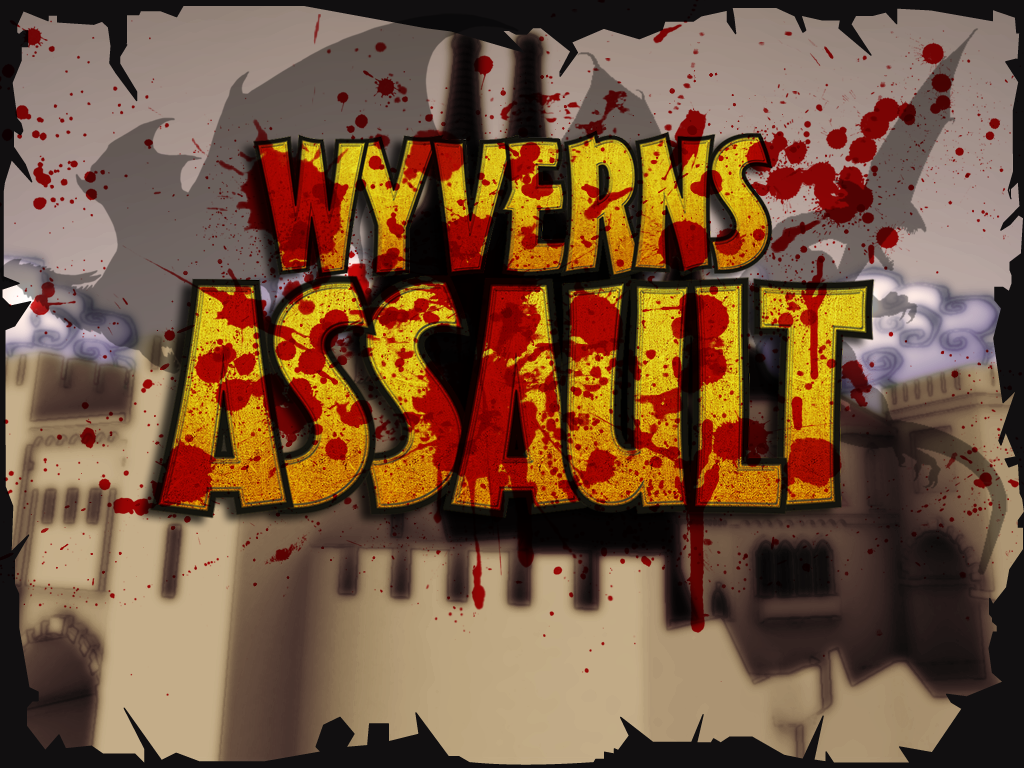
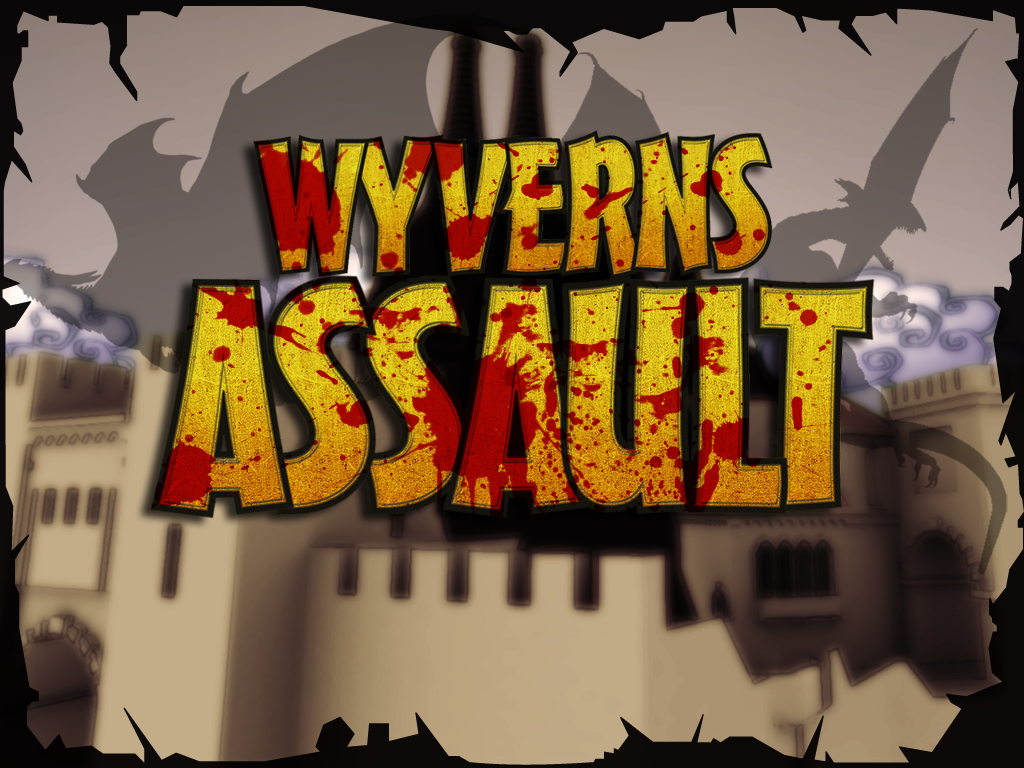
+ Added select character screen. + Added select character state. ~ Changes to main menu title. ~ Some other fixes.

diff --git a/trunk/src/States/SelectionState.cpp b/trunk/src/States/SelectionState.cpp
@@ -1,0 +1,150 @@
+#include "..\include\States\SelectionState.h"
+
+using namespace WyvernsAssault;
+
+SelectionState::SelectionState(GraphicsManagerPtr graphicsManager, 
+									 InputManagerPtr inputManager, 
+									 AudioManagerPtr audioManager, 
+									 CameraManagerPtr cameraManager, 
+									 GuiManagerPtr guiManager, 
+									 LevelManagerPtr levelManager)
+: BaseState(graphicsManager,inputManager,audioManager, cameraManager, guiManager, levelManager)
+, mLevel(0)
+{
+	//
+	// TODO Constructor
+	//
+}
+
+SelectionState::~SelectionState()
+{
+	//
+	// TODO Destructor
+	//
+	exit();
+}
+
+/** Initialize current state */
+void SelectionState::initialize()
+{
+	BaseState::initialize();
+}
+
+/** Manage input */
+void SelectionState::input()
+{
+	//
+	// TODO Read input
+	//
+	this->mInputManager->capture();
+}
+
+/** Load resources */
+void SelectionState::load()
+{
+	//
+	// Gui Screen for this state
+	//
+	mGuiScreen = mGuiManager->createScreen(GuiScreenId::SelectionGui, "Selection");
+	
+	GuiBackgroundPtr guiBackground = GuiBackgroundPtr(new GuiBackground());
+	
+	// Common aspect ratio is 4/3
+	if( mWindow->getViewport(0)->getCamera()->getAspectRatio() > 1.34 )
+		guiBackground->setImage("wide/Selection.png","SelectionBackground","General");
+	else
+		guiBackground->setImage("normal/Selection.png","SelectionBackground","General");
+
+	mGuiScreen->setBackground(guiBackground);
+
+	// Gui Widgets for this state
+	mMenu = new GuiMenu(mWindow->getViewport(0)->getCamera()->getAspectRatio(), GuiScreenId::SelectionGui);
+	
+	// Add menu to screen
+	mGuiScreen->addMenu(mMenu);
+}
+
+/** Update internal stuff */
+void SelectionState::update(const float elapsedSeconds)
+{
+	//
+	// TODO Update
+	//
+}
+
+/** Render */
+void SelectionState::render(const float elapsedSeconds)
+{
+	//
+	// TODO Render
+	//
+}
+
+/** Unload resources */
+void SelectionState::unload() 
+{
+	if(mGuiScreen)
+	{
+		//
+		// Remove gui
+		//
+		mGuiManager->removeScreen(GuiScreenId::SelectionGui);
+		mGuiScreen.reset();
+	}
+}
+
+/** Destroy the state */
+void SelectionState::finalize()
+{
+	BaseState::finalize();
+}
+
+/** Get state Id */
+GameStateId SelectionState::getStateId()
+{
+	//
+	// BEWARE! Make sure this is the correspondent state or we fuck up everything!
+	//
+	return GameStateId::Selection;
+}
+
+/** Called when the state has to be paused */
+void SelectionState::pause()
+{
+	//
+	// TODO : Pause state
+	//
+}
+
+/** Called when the state has to be resumed (from pause) */
+void SelectionState::resume()
+{
+	//
+	// TODO : Resume state
+	//
+}
+
+/** Buffered input - keyboard key clicked */
+bool SelectionState::keyReleased(const OIS::KeyEvent& e)
+{
+	switch(e.key)
+	{
+	case OIS::KC_RETURN:
+		this->mNextGameStateId = GameStateId::LevelLoading;
+		break;
+	}
+
+	return true;
+}
+
+bool SelectionState::mousePressed(const OIS::MouseEvent &evt, OIS::MouseButtonID buttonId)
+{
+	/*switch(buttonId)
+	{
+		case OIS::MouseButtonID::MB_Left:
+			this->mNextGameStateId = GameStateId::MainMenu;
+			break;
+	}*/
+
+	return true;
+}

diff --git a/trunk/include/States/SelectionState.h b/trunk/include/States/SelectionState.h
@@ -1,0 +1,76 @@
+/*
+-----------------------------------------------------------------------------
+Wyverns' Assault 3D Videgame.
+Copyright (C) 2010  Giorgio Tino, Javier Soto Huesa, Jordi Carreras Ribot, 
+					Marc Serena, Elm Oliver Torres
+
+This program is free software; you can redistribute it and/or
+modify it under the terms of the GNU General Public License
+as published by the Free Software Foundation; either version 2
+of the License, or (at your option) any later version.
+
+This program is distributed in the hope that it will be useful,
+but WITHOUT ANY WARRANTY; without even the implied warranty of
+MERCHANTABILITY or FITNESS FOR A PARTICULAR PURPOSE.  See the
+GNU General Public License for more details.
+
+You should have received a copy of the GNU General Public License
+along with this program; if not, write to the Free Software
+Foundation, Inc., 51 Franklin Street, Fifth Floor, Boston, MA  02110-1301, USA.
+
+-----------------------------------------------------------------------------
+*/
+#ifndef __SELECTION_STATE_H_
+#define __SELECTION_STATE_H_
+
+#include "BaseState.h"
+
+namespace WyvernsAssault
+{
+	/**
+		Intro game state class
+	*/
+	class SelectionState : public BaseState
+	{
+	public:
+		SelectionState(	GraphicsManagerPtr graphicsManager, 
+							InputManagerPtr inputManager, 
+							AudioManagerPtr audioManager, 
+							CameraManagerPtr cameraManager, 
+							GuiManagerPtr guiManager,
+							LevelManagerPtr levelManager);
+		~SelectionState();
+
+	public:
+		/** Initialize current state */
+		void initialize();
+		/** Load resources */
+		void load();
+		/** Manage input - INPUT */
+		void input();
+		/** Update internal stuff - PROCESS */
+		void update(const float elapsedSeconds);
+		/** Render - OUTPUT */
+		void render(const float elapsedSeconds);
+		/** Unload resources */
+		void unload();
+		/** Destroy the state */
+		void finalize();
+		/** Called when the state has to be paused */
+		void pause();
+		/** Called when the state has to be resumed (from pause) */
+		void resume();
+
+		/** Buffered input - keyboard key clicked */
+		bool keyReleased(const OIS::KeyEvent& e);
+		/** Buffered input - mouse button clicked */
+		bool mousePressed(const OIS::MouseEvent &evt, OIS::MouseButtonID);
+
+		/** Get state Id */
+		GameStateId getStateId();
+
+	private:
+		int mLevel;
+	};
+}
+#endif // __SELECTION_STATE_H_

diff --git a/trunk/src/States/StatesManager.cpp b/trunk/src/States/StatesManager.cpp
@@ -64,6 +64,7 @@ void StatesManager::initialize(GraphicsManagerPtr graphicsManager, InputManagerP
 	this->mStates[GameStateId::Ending]			= new EndingState(graphicsManager, inputManager, audioManager, cameraManager, guiManager, levelManager);
 	this->mStates[GameStateId::GameOver]		= new GameoverState(graphicsManager, inputManager, audioManager, cameraManager, guiManager, levelManager);
 	this->mStates[GameStateId::Play]			= new PlayState(graphicsManager, inputManager, audioManager, cameraManager, guiManager, levelManager);
+	this->mStates[GameStateId::Selection]		= new SelectionState(graphicsManager, inputManager, audioManager, cameraManager, guiManager, levelManager);
 	this->mStates[GameStateId::LevelLoading]	= new LevelLoadingState(graphicsManager, inputManager, audioManager, cameraManager, guiManager, levelManager);
 	this->mStates[GameStateId::Credits]			= new CreditsState(graphicsManager, inputManager, audioManager, cameraManager, guiManager, levelManager);
 	this->mStates[GameStateId::Outro]			= new OutroState(graphicsManager, inputManager, audioManager, cameraManager, guiManager, levelManager);

diff --git a/trunk/src/States/MainMenuState.cpp b/trunk/src/States/MainMenuState.cpp
@@ -78,14 +78,12 @@ void MainMenuState::update(const float elapsedSeconds)
 {
 	timer = timer + elapsedSeconds;
 
-	if( timer > 2.75 )
+	if( timer > 2.25 )
 	{
-		guiBackground->setFrame(7);
+		guiBackground->setFrame(6);
 		mGuiScreen->addMenu(mMenu);
 		animControl = 1;
 	}		
-	else if( timer > 2.25 )
-		guiBackground->setFrame(6);
 	else if( timer > 1.75 )
 		guiBackground->setFrame(5);
 	else if( timer > 1.5 )
@@ -168,7 +166,7 @@ bool MainMenuState::keyReleased(const OIS::KeyEvent& e)
 			switch(mMenu->getCurrentOption())
 			{
 			case GuiWidgetMenuId::PlayMenu:
-				this->mNextGameStateId = GameStateId::LevelLoading;
+				this->mNextGameStateId = GameStateId::Selection;
 				break;
 			case GuiWidgetMenuId::OptionsMenu:
 				this->mNextGameStateId = GameStateId::Options;

diff --git a/trunk/include/States/BaseState.h b/trunk/include/States/BaseState.h
@@ -63,15 +63,16 @@ namespace WyvernsAssault
 		Intro			= 1,
 		MainMenu		= 2,
 		Play			= 3,
-		LevelLoading	= 4,
-		GameOver		= 5,
-		Ending			= 6,
-		Outro			= 7,
-		Credits			= 8,
-		Options			= 9,
-		Pause			= 10,
-		Previous		= 11,// Special state, it is just a flag to return back to whatever the previous state was.
-		Exit			= 12 // Special state, it is just a flag to exit the application
+		Selection		= 4,
+		LevelLoading	= 5,
+		GameOver		= 6,
+		Ending			= 7,
+		Outro			= 8,
+		Credits			= 9,
+		Options			= 10,
+		Pause			= 11,
+		Previous		= 12,// Special state, it is just a flag to return back to whatever the previous state was.
+		Exit			= 13 // Special state, it is just a flag to exit the application
 	};
 
 	/**

diff --git a/trunk/src/GUI/GuiMenu.cpp b/trunk/src/GUI/GuiMenu.cpp
@@ -56,6 +56,9 @@ void GuiMenu::initialize(Real aspectRatio)
 	// LevelLoading screen
 	else if (mScreenId == 10)
 		mMenu = static_cast<OverlayContainer*>(overlayManager.createOverlayElementFromTemplate("GUI/LoadingMenu", "Panel", uiName));
+	// Selection screen
+	else if (mScreenId == 11)
+		mMenu = static_cast<OverlayContainer*>(overlayManager.createOverlayElementFromTemplate("GUI/ContinueMenu", "Panel", uiName));
 	// Others
 	else
 		mMenu = static_cast<OverlayContainer*>(overlayManager.createOverlayElementFromTemplate("GUI/Menu", "Panel", uiName));	

diff --git a/trunk/include/GUI/GuiScreen.h b/trunk/include/GUI/GuiScreen.h
@@ -55,8 +55,9 @@ namespace WyvernsAssault
 		PauseGui		= 8,
 		OptionsGui		= 9,
 		LevelLoadingGui = 10,
-		FlashCounterGui = 11,
-		FlashCounterEnemyGui = 12
+		SelectionGui	= 11,
+		FlashCounterGui = 12,
+		FlashCounterEnemyGui = 13		
 	};
 
 	/** The widget map type */

diff --git a/trunk/include/States/StatesManager.h b/trunk/include/States/StatesManager.h
@@ -51,6 +51,7 @@ Foundation, Inc., 51 Franklin Street, Fifth Floor, Boston, MA  02110-1301, USA.
 #include "OptionsState.h"
 #include "PauseState.h"
 #include "LevelLoadingState.h"
+#include "SelectionState.h"
 
 //
 // Audio
